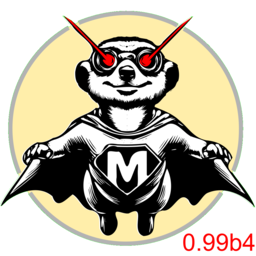
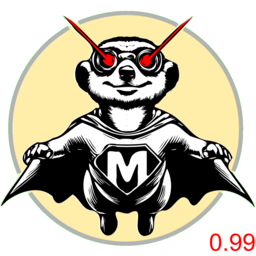
Version Push for 0.99

Changed region(s): [[0.6875, 0.9062, 1.0, 1.0]]

diff --git a/meerk40t/main.py b/meerk40t/main.py
@@ -11,7 +11,7 @@ import os.path
 import sys
 
 APPLICATION_NAME = "MeerK40t"
-APPLICATION_VERSION = "0.9.8940"
+APPLICATION_VERSION = "0.9.9000"
 
 if not getattr(sys, "frozen", False):
     # If .git directory does not exist we are running from a package like pypi
